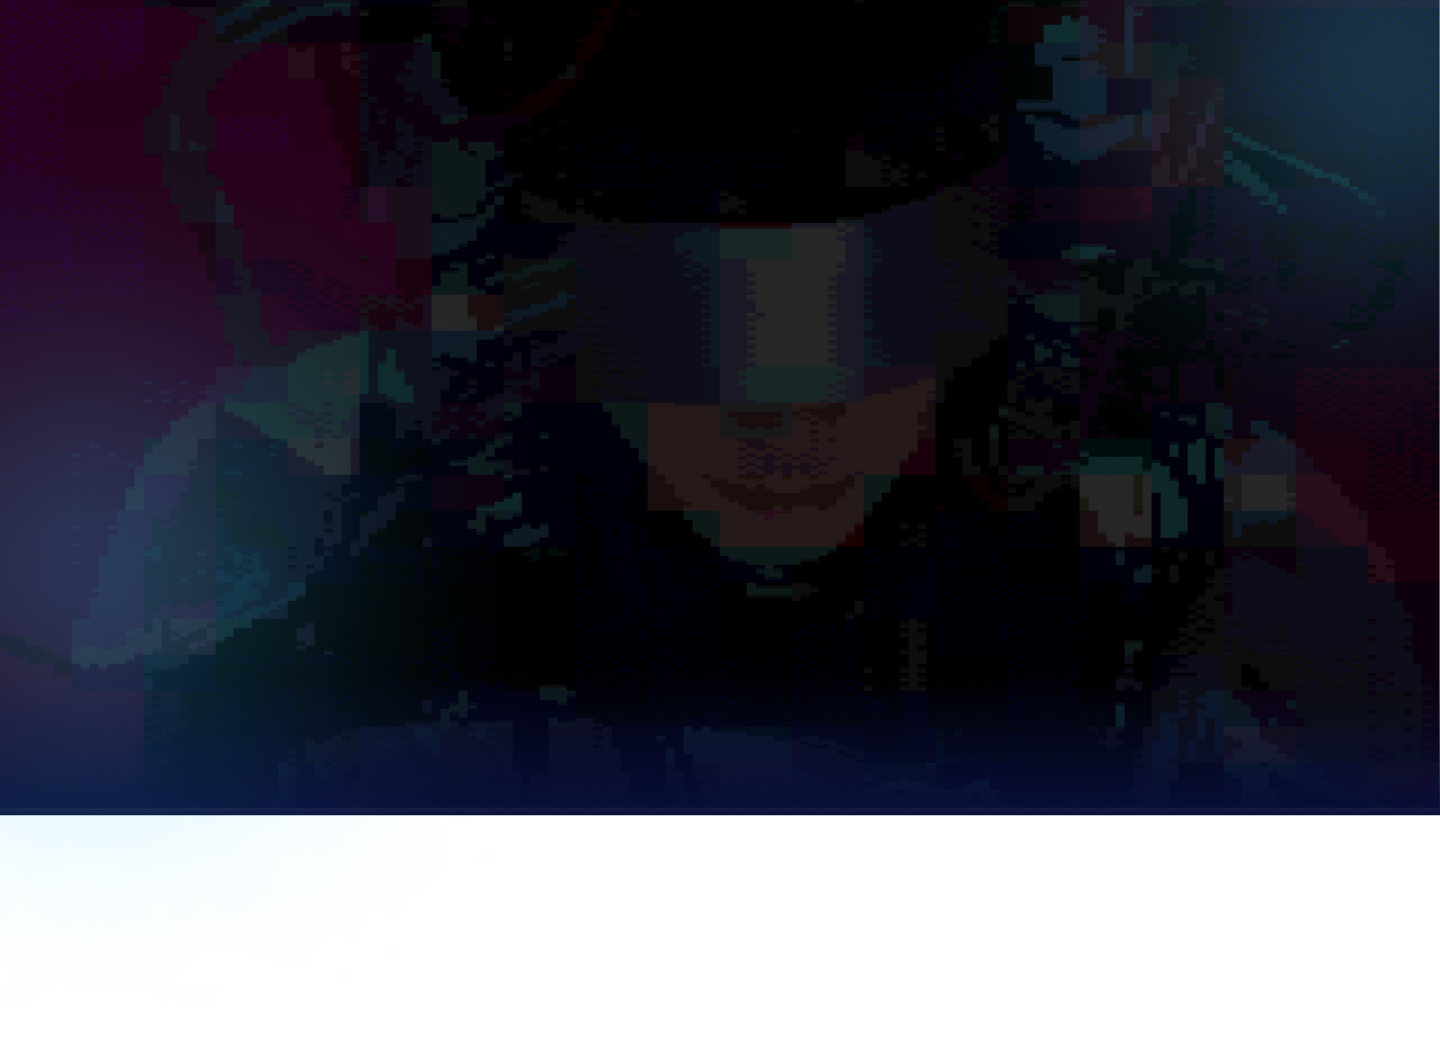
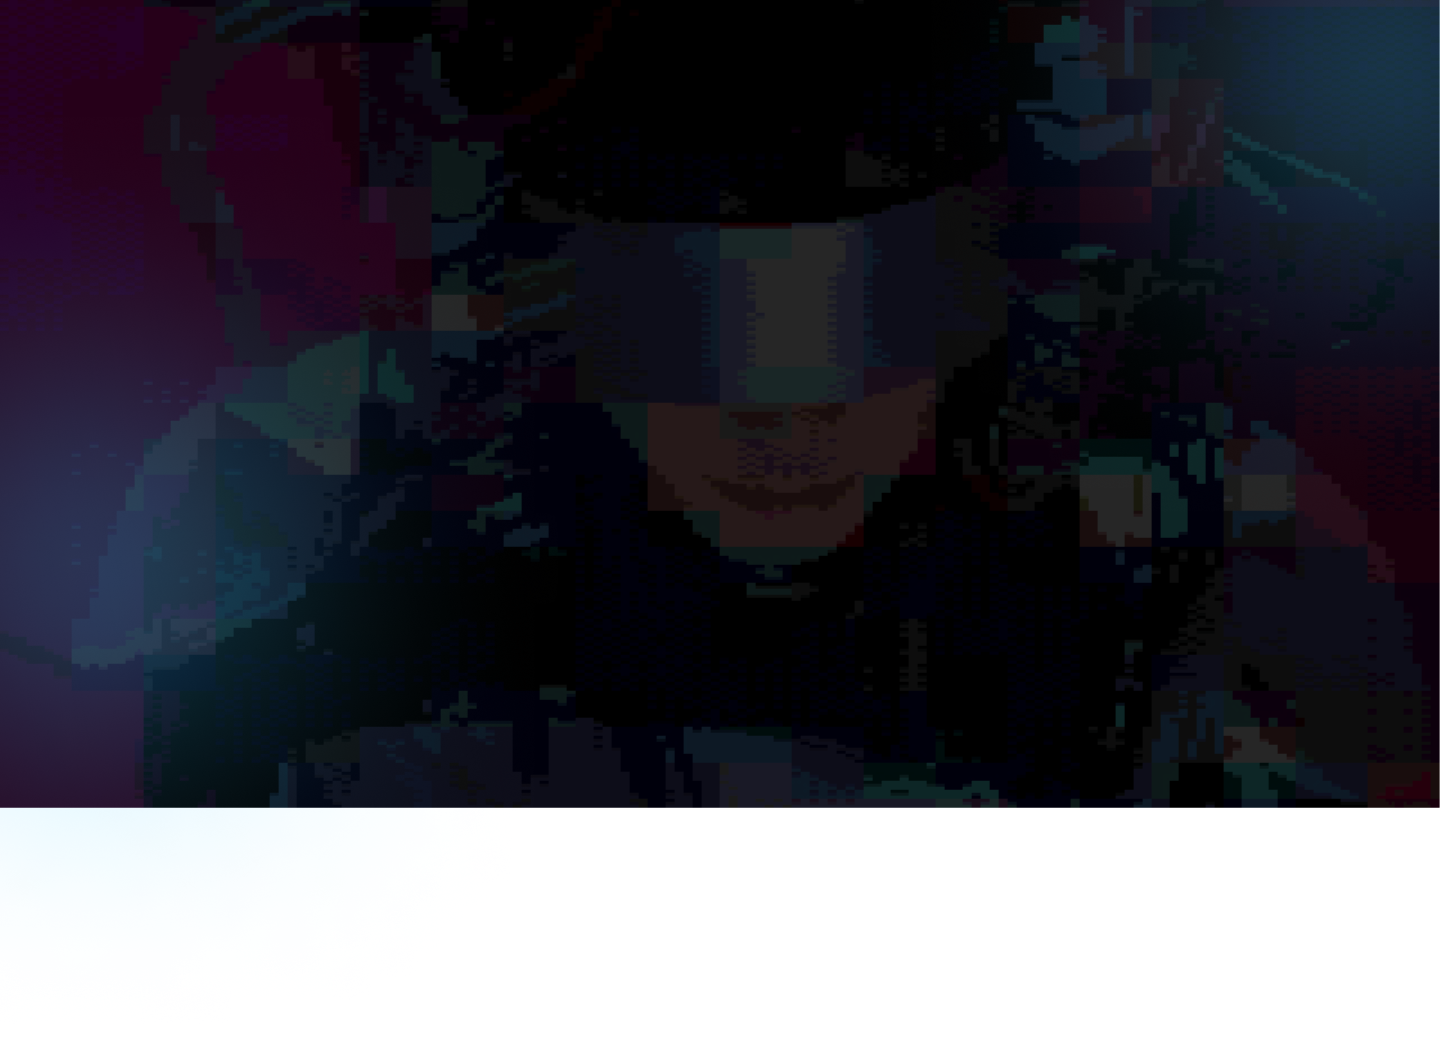
hero section mistake's done

Changed region(s): [[0.0, 0.7003, 1.0, 0.7916]]

diff --git a/index.html b/index.html
@@ -21,7 +21,7 @@
 
 <body class="bg-blue">
 
-    <section class="bg-img position-relative">
+    <section class="bg-img d-flex flex-column">
         <div class="container">
             <nav class="d-flex nav-bar align-items-center">
                 <div>
@@ -58,13 +58,17 @@
                     </li>
                 </ul>
             </nav>
-
-            <h1 class="heading fw-normal fs-xl oswald-font text-center mx-auto fc-white m-0">JOIN THE VICTORIAN
-                RESISTANCE</h1>
-            <p class="fw-normal fs-sm fc-white text-center text-1 m-0">Defend the world, protect what's yours. Join the
-                Resistance!</p>
-            <button class="buton-3 mx-auto d-flex fw-bold fs-md oswald-font bg-sky-blue">JOIN THE
-                RESISTANT</button>
+        </div>
+        <div class="fex">
+            <div class="container">
+                <h1 class="heading fw-normal fs-xl oswald-font text-center mx-auto fc-white m-0 ">JOIN THE VICTORIAN
+                    RESISTANCE</h1>
+                <p class="fw-normal fs-sm fc-white text-center text-1 m-0 oswald-font">Defend the world, protect what's yours. Join
+                    the
+                    Resistance!</p>
+                <button class="buton-3 mx-auto d-flex fw-bold fs-md oswald-font bg-sky-blue">JOIN THE
+                    RESISTANT</button>
+            </div>
         </div>
     </section>
 
@@ -72,7 +76,7 @@
         <div class="container">
             <div class="row">
                 <div class=" col-12 col-lg-5 ">
-                    <img class="d-flex mx-auto justify-content-center i-img z-1" src="/assets/images/png/iphone-img.png"
+                    <img class="d-flex mx-auto justify-content-center i-img z-1" src="/assets/images/png/Component 2.png"
                         alt="">
                     <img class="position-absolute elipse-2 " src="/assets/images/svg/Ellipse-4.svg" alt="">
                 </div>
@@ -152,16 +156,16 @@
     <section class=" mt-198 d-flex bg-dark-blue   align-items-center Faq-acc position-relative">
         <img class="position-absolute acc-shadow " src="/assets/images/svg/triangle-shadow-2.svg" alt="">
         <div class="container">
-            <h2 class="fw-normal fs-lg fc-white text-center m-0 ">FAQs</h2>
+            <h2 class="fw-normal fs-lg fc-white text-center m-0 oswald-font">FAQs</h2>
             <p class="open-sans-font fw-normal fc-white fs-sm text-center mx-auto mw-680 pt-12 pb-77 m-0">Porta maecenas
                 consequat sed neque gravida eleifend fusce cursus amet. Turpis enim sed pharetra tempus
                 ullamcorper mauris mauris facilisis.</p>
             <div class="d-flex justify-content-center">
                 <div class="accordion mb-50 accordion-flush" id="accordionFlushExample">
-                    <div class="accordion-item bg-transparent mt-60 ">
+                    <div class="accordion-item bg-transparent  ">
                         <h2 class="accordion-header" id="flush-headingOne">
                             <button
-                                class="accordion-button collapsed bg-color oswald-font fw-bold fs-md fc-white bg-transparent"
+                                class="accordion-button collapsed bg-color oswald-font fw-bold fs-md fc-white bg-transparent align-items-start"
                                 type="button" data-bs-toggle="collapse" data-bs-target="#flush-collapseOne"
                                 aria-expanded="false" aria-controls="flush-collapseOne">
                                 <span class="pr-14">Q1.</span>Aliquam magnis sed arcu p-0rutrum quisque sed aliquet
@@ -182,7 +186,7 @@
                     <div class="accordion-item bg-transparent mt-4">
                         <h2 class="accordion-header" id="flush-headingTwo">
                             <button
-                                class="accordion-button  collapsed oswald-font fw-bold fs-md fc-white bg-transparent"
+                                class="accordion-button  collapsed oswald-font fw-bold fs-md fc-white bg-transparent align-items-start"
                                 type="button" data-bs-toggle="collapse" data-bs-target="#flush-collapseTwo"
                                 aria-expanded="false" aria-controls="flush-collapseTwo p-0">
                                 <span class="pr-12">Q2.</span> A semper enim quis non aenean adipiscing lectus neque?
@@ -201,7 +205,7 @@
                     </div>
                     <div class="accordion-item bg-transparent mt-4">
                         <h2 class="accordion-header" id="flush-headingThree">
-                            <button class="accordion-button collapsed oswald-font fw-bold fs-md fc-white bg-transparent"
+                            <button class="accordion-button collapsed oswald-font fw-bold fs-md fc-white bg-transparent align-items-start"
                                 type="button" data-bs-toggle="collapse" data-bs-target="#flush-collapseThree"
                                 aria-expanded="false" aria-controls="flush-collapseThree">
                                 <span class="pr-12">Q3.</span>Consectetur faucibus vel p-0it aliquam dictum vestibulum
@@ -221,7 +225,7 @@
                     </div>
                     <div class="accordion-item bg-transparent mt-4">
                         <h2 class="accordion-header" id="flush-headingFour">
-                            <button class="accordion-button collapsed oswald-font fw-bold fs-md fc-white bg-transparent"
+                            <button class="accordion-button collapsed oswald-font fw-bold fs-md fc-white bg-transparent align-items-start"
                                 type="button" data-bs-toggle="collapse" data-bs-target="#flush-collapseFour"
                                 aria-expanded="false" aria-controls="flush-collapseFou p-0r">
                                 <span class="pr-12">Q4.</span>Volutpat cras natoque suscipit in semisus euismod?
@@ -246,25 +250,26 @@
     </section>
 
     <section class="shadow-img d-flex align-items-center justify-content-center min-vh-100 mb-32 position-relative">
-        <img src="./assets/images/svg/triangle-shadow-3.svg" alt="triangle-img" class="position-absolute triangle-img z-n1">
+        <img src="./assets/images/svg/triangle-shadow-3.svg" alt="triangle-img"
+            class="position-absolute triangle-img z-n1">
         <div class="container max-w-1140">
             <div class="box position-relative">
                 <div class="d-flex justify-content-center justify-content-lg-start">
-                    <img src="./assets/images/png/Component 1 .png" alt="" class="iphone w-100   d-lg-none ">
+                    <img src="./assets/images/png/Component-1.png" alt="" class="iphone w-100   d-lg-none ">
                 </div>
                 <div class="d-flex justify-content-center justify-content-lg-start">
                     <h2 class="oswald-font fw-normal fs-lg lh-71 fc-white pt-65 ml-73">JOIN THE RESISTANCE</h2>
                 </div>
                 <div class="d-flex justify-content-center justify-content-lg-start">
-                    <p
-                        class="open-sans-font fw-normal fs-sm lh-21 fc-white max-w-582  text-center text-lg-start ml-73">
+                    <p class="open-sans-font fw-normal fs-sm lh-21 fc-white max-w-582  text-center text-lg-start ml-73">
                         Volutpat etiam tincidunt leo amet pulvinar. Adipiscing vestibulum enim ornare vestibulum.
                         Mauris sit hendrerit interdum neque mattis enim egenisi.</p>
                 </div>
                 <div class="d-flex justify-content-center justify-content-lg-start mb-50">
-                    <button class="buton-4 fw-bold oswald-font bg-sky-blue fc-dark-blue fs-sm lh-23 mt-60 ml-73">JOIN NOW</button>
+                    <button class="buton-4 fw-bold oswald-font bg-sky-blue fc-dark-blue fs-sm lh-23 mt-60 ml-73">JOIN
+                        NOW</button>
                 </div>
-                <img src="./assets/images/png/Component 1 .png" alt="phone-img"
+                <img src="./assets/images/png/Component-1.png" alt="phone-img"
                     class="position-absolute phone-img d-none d-lg-block ">
             </div>
         </div>

diff --git a/assets/css/root.css b/assets/css/root.css
@@ -4,31 +4,11 @@
     --fs-lg: 48px;
     --fs-xl: 80px;
     --fs-2xl: 12px;
-
-
-    --fc-black: #020D15;
+  
     --fc-white: #FFFFFF;
-    --fc-light-grey: #B1B5B9;
-    --fc-light-white: #CACDD0;
     --fc-sky-blue: #39C6FD;
     --fc-dark-blue: #070D37;
-    --fc-purple: #8048F81A;
     --fc-blue: #070D37;
-
-    --fc-green: #23A5661A;
-    --fc-light-red: #F156421A;
-    --fc-light-black: #181717;
-    --fc-white-light: #FBFDFF;
-
-    --fc-slate-gray: #B1B7BD;
-    --fc-grey: #B1BAC4;
-    --fc-normal-blue: #0389FF1F;
-    --fc-light-green: #FBFDFF12;
-    --fc-slate-light: #B1B6B9;
-    --fc-brown-white: #CACED2;
-    --fc-ultra-grey: #98A1A9;
-    --fc-unique-grey: #B1B6BB;
-    --fc-light-grey-2: #B0B5B9;
 }
 
 .fs-sm {
@@ -57,20 +37,8 @@
     color: var(--fc-white);
 }
 
-.fc-light-white {
-    color: var(--fc-light-white) !important;
-}
-
-.fc-normal-blue {
-    color: var(--fc-normal-blue) !important;
-}
-
-.fc-light-green {
-    color: var(--fc-light-green) !important;
-}
-
-.fc-grey {
-    color: var(--fc-grey);
+.bg-sky-blue {
+    background-color: var(--fc-sky-blue);
 }
 
 .fc-dark-blue {
@@ -87,74 +55,6 @@
 
 .fc-blue {
     color: var(--fc-blue) !important;
-}
-
-.fc-ultra-grey {
-    color: var(--fc-ultra-grey) !important;
-}
-
-.fc-light-blue {
-    color: var(--fc-light-blue);
-}
-
-.fc-unique-grey {
-    color: var(--fc-unique-grey);
-}
-
-.fc-light-grey {
-    color: var(--fc-light-grey);
-}
-
-.fc-light-grey-2 {
-    color: var(--fc-light-grey-2);
-}
-
-.bg-black {
-    color: var(--fc-black);
-}
-
-.bg-purple {
-    background-color: var(--fc-purple);
-}
-
-.bg-orange {
-    background-color: var(--fc-orange);
-}
-
-.bg-sky-blue {
-    background-color: var(--fc-sky-blue);
-}
-
-.fc-green {
-    color: var(--fc-green);
-}
-
-.fc-bron-white {
-    color: var(--fc-brown-white);
-}
-
-.fc-slate-light {
-    color: var(--fc-slate-light);
-}
-
-.fc-light-red {
-    color: var(--fc-light-red);
-}
-
-.bg-lght-green {
-    background-color: var(--fc-light-green);
-}
-
-.bg-light-black {
-    background-color: var(--fc-light-black) !important;
-}
-
-.bg-normal-blue {
-    background-color: var(--fc-normal-blue);
-}
-
-.fc-white-light {
-    color: var(--fc-white-light);
 }
 
 .bg-blue {

diff --git a/assets/css/style.css b/assets/css/style.css
@@ -7,7 +7,8 @@
     background-repeat: no-repeat;
     background-size: cover;
     background-position: center;
-    padding-bottom: 198.12px;
+    min-height: 100vh;
+    position: relative;
 }
 
 .bg-img::after {
@@ -15,8 +16,16 @@
     position: absolute;
     width: 1440.49px;
     height: 140.8px;
+    bottom: 15%;
     background: linear-gradient(180deg, rgba(8, 16, 58, 0) 0%, #080E38 100%);
-    bottom: 0%;
+
+}
+
+.fex {
+    flex-grow: 1;
+    display: flex;
+    justify-content: center;
+    align-items: center;
 }
 
 .container {
@@ -34,7 +43,6 @@
 .heading {
     max-width: 607.82px;
     line-height: 118.56px;
-    padding-top: 166px;
 }
 
 .text-1 {
@@ -73,7 +81,7 @@
     border: none;
     margin-top: 68.11px;
     color: #070D37;
-    margin-bottom: 64.73px;
+    margin-bottom: 198px;
 }
 
 .pt-12 {
@@ -204,14 +212,8 @@
     padding-bottom: 26.17px;
 }
 
-.Faq-acc .accordion-button {
-    /* background-color: transparent !important; */
-}
-
-
 .Faq-acc .accordion {
     --bs-accordion-color: var(--bs-body-color);
-    /* --bs-accordion-bg: #070D37 !important; */
     --bs-accordion-border-width: var(--bs-border-width);
     --bs-accordion-border-radius: var(--bs-border-radius);
     max-width: 1022px;
@@ -223,12 +225,14 @@
     flex-direction: column-reverse;
     width: 24px;
     height: 24px;
+    rotate: 0;
 }
 
 .accordion-button:not(.collapsed)::after {
     background-image: url(/assets/images/svg/acc-arrow-2.svg) !important;
     height: 24px;
     width: 24px;
+    rotate: 0;
 }
 
 .Faq-acc .accordion-item {
@@ -354,7 +358,7 @@
     opacity: 70%;
 }
 
-.mb-50{
+.mb-50 {
     margin-bottom: 50px;
 }
 

diff --git a/assets/js/app.js b/assets/js/app.js
@@ -3,7 +3,7 @@ $('.animate-slider').slick({
     infinite: true,
     slidesToShow: 3,
     slidesToScroll: 1,
-    dots: true,
+    dots: false,
     arrows: false,
     variableWidth: true,
     centerMode: true,
@@ -22,6 +22,7 @@ $('.animate-slider').slick({
         {
             breakpoint: 786,
             settings: {
+                dots:true,
                 slidesToShow: 1,
                 slidesToScroll: 1,
                 centerMode: true,
